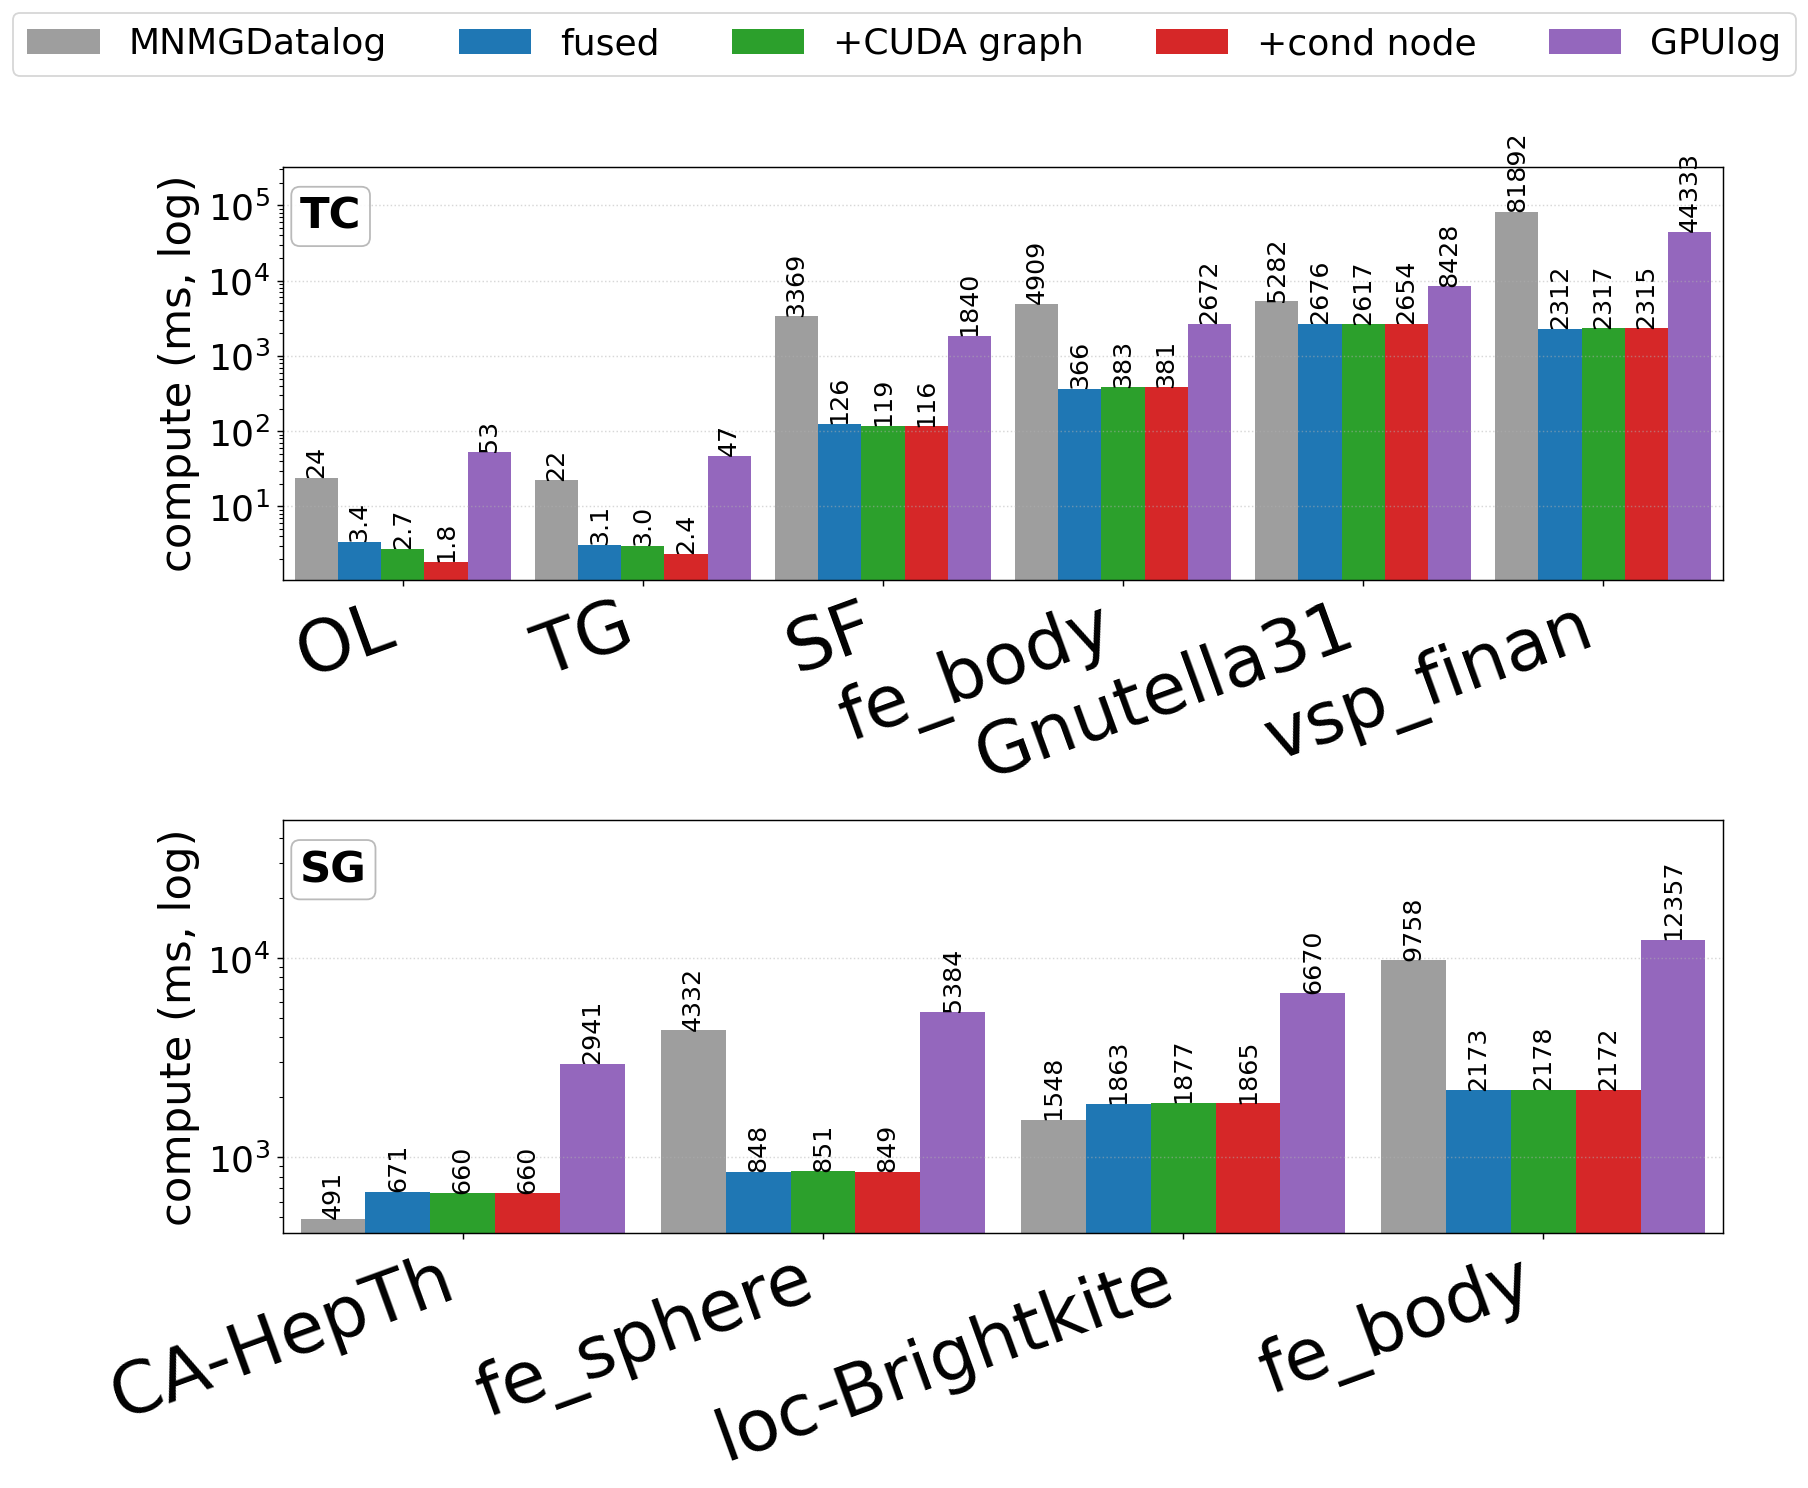
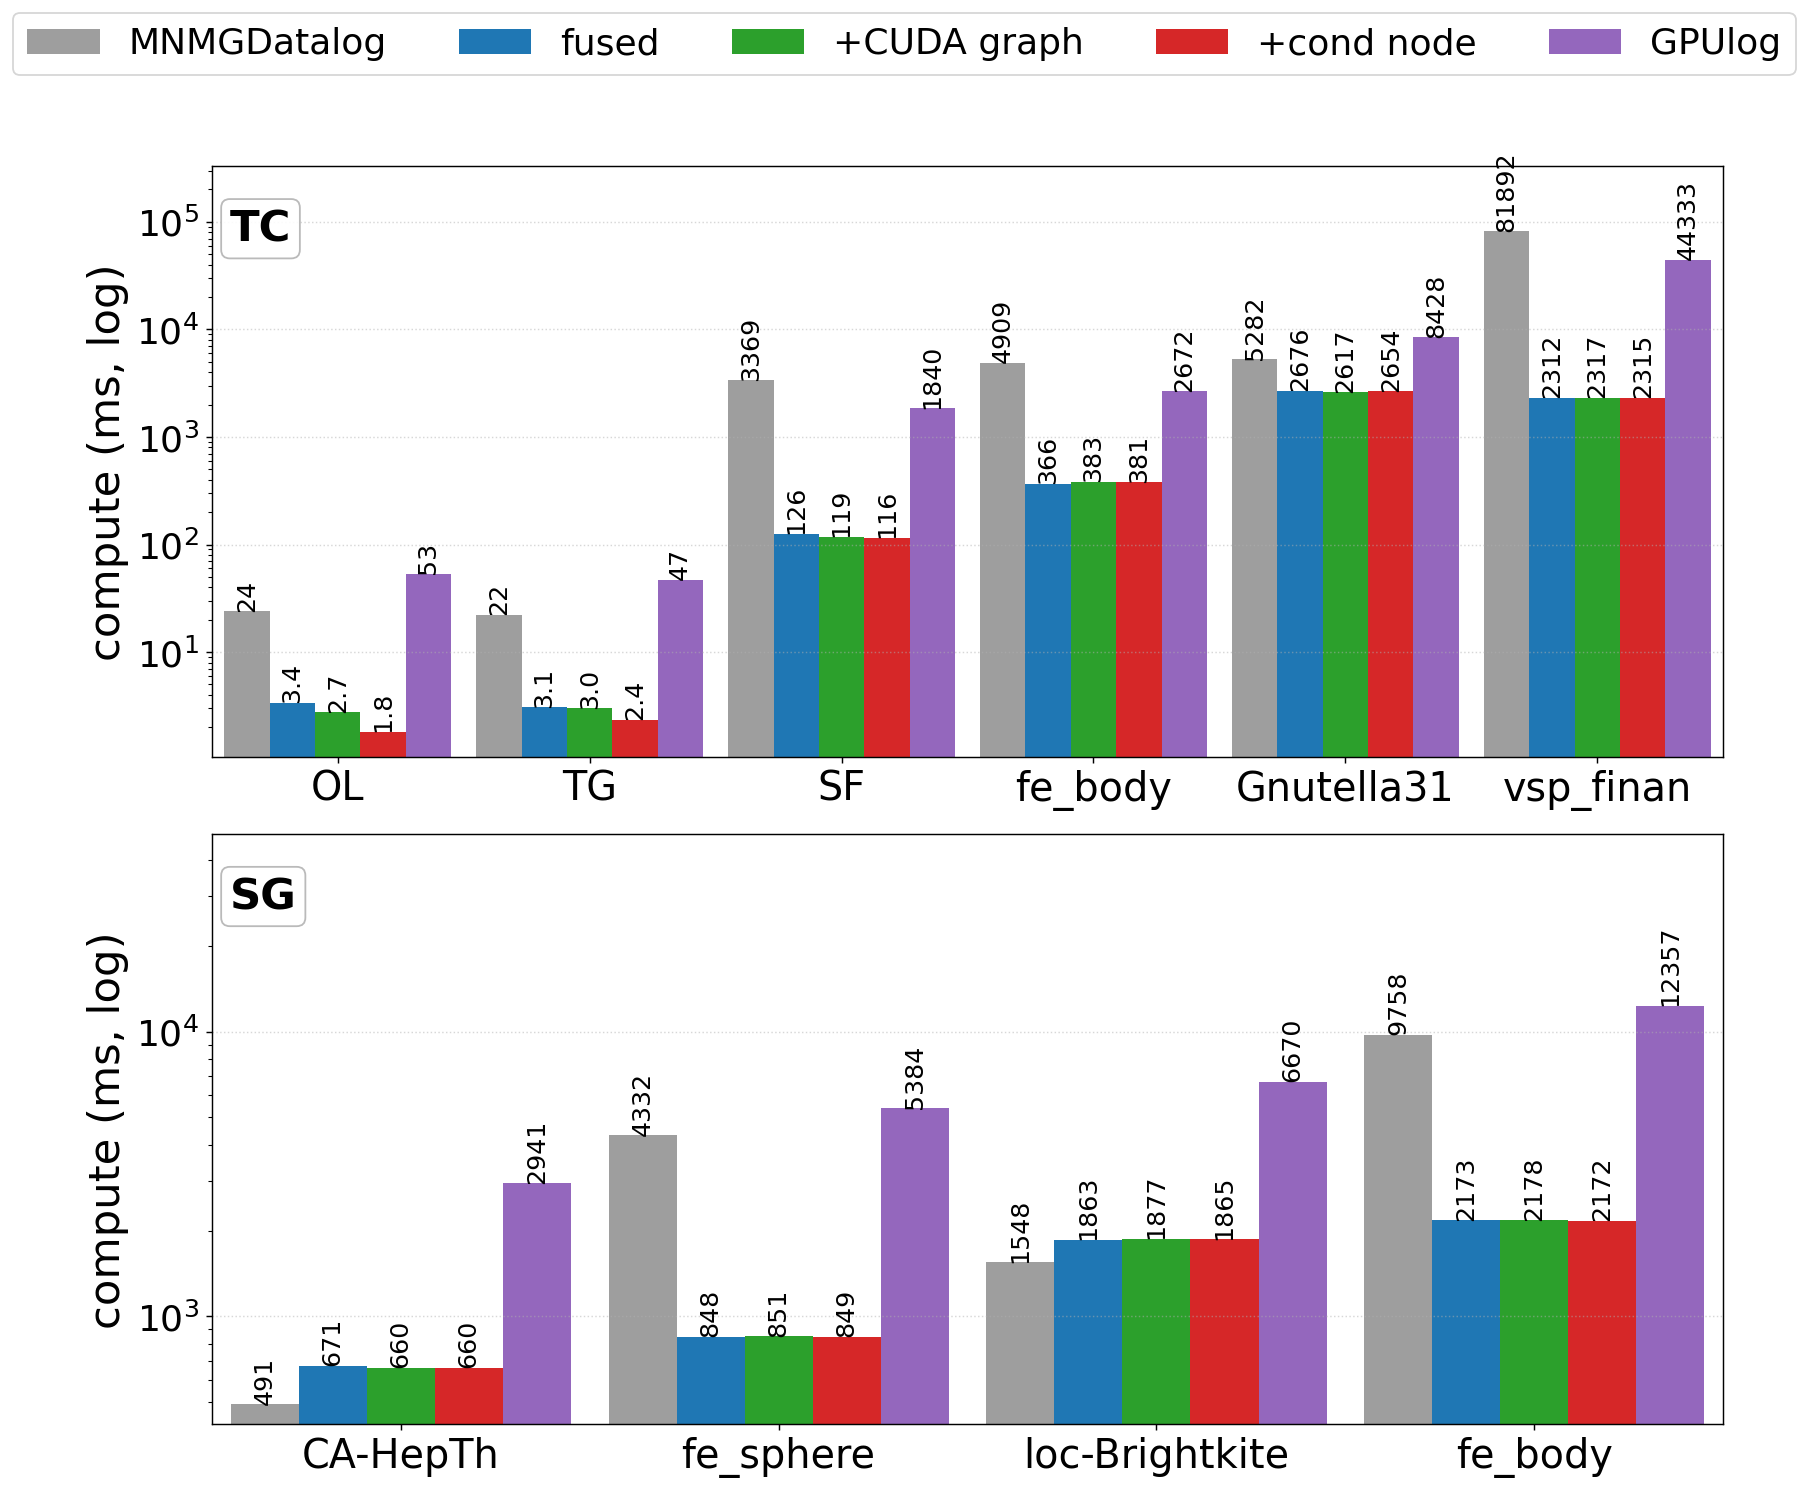
compute chart: reduce x-axis label font, remove rotation

diff --git a/tc_benchmark/tests/plot_compute.py b/tc_benchmark/tests/plot_compute.py
@@ -120,7 +120,7 @@ def _panel(ax, order, ours, gpulog, tag):
     ax.set_ylim(top=top * 4.0)   # headroom for the rotated value labels
     ax.set_xlim(-0.5, n - 0.5)
     ax.set_xticks(range(n))
-    ax.set_xticklabels(order, rotation=20, ha="right", fontsize=40)
+    ax.set_xticklabels(order, rotation=0, ha="center", fontsize=22)
     ax.set_ylabel("compute (ms, log)")
     ax.grid(axis="y", ls=":", alpha=0.5)
     # per-panel query tag in the top-left corner
